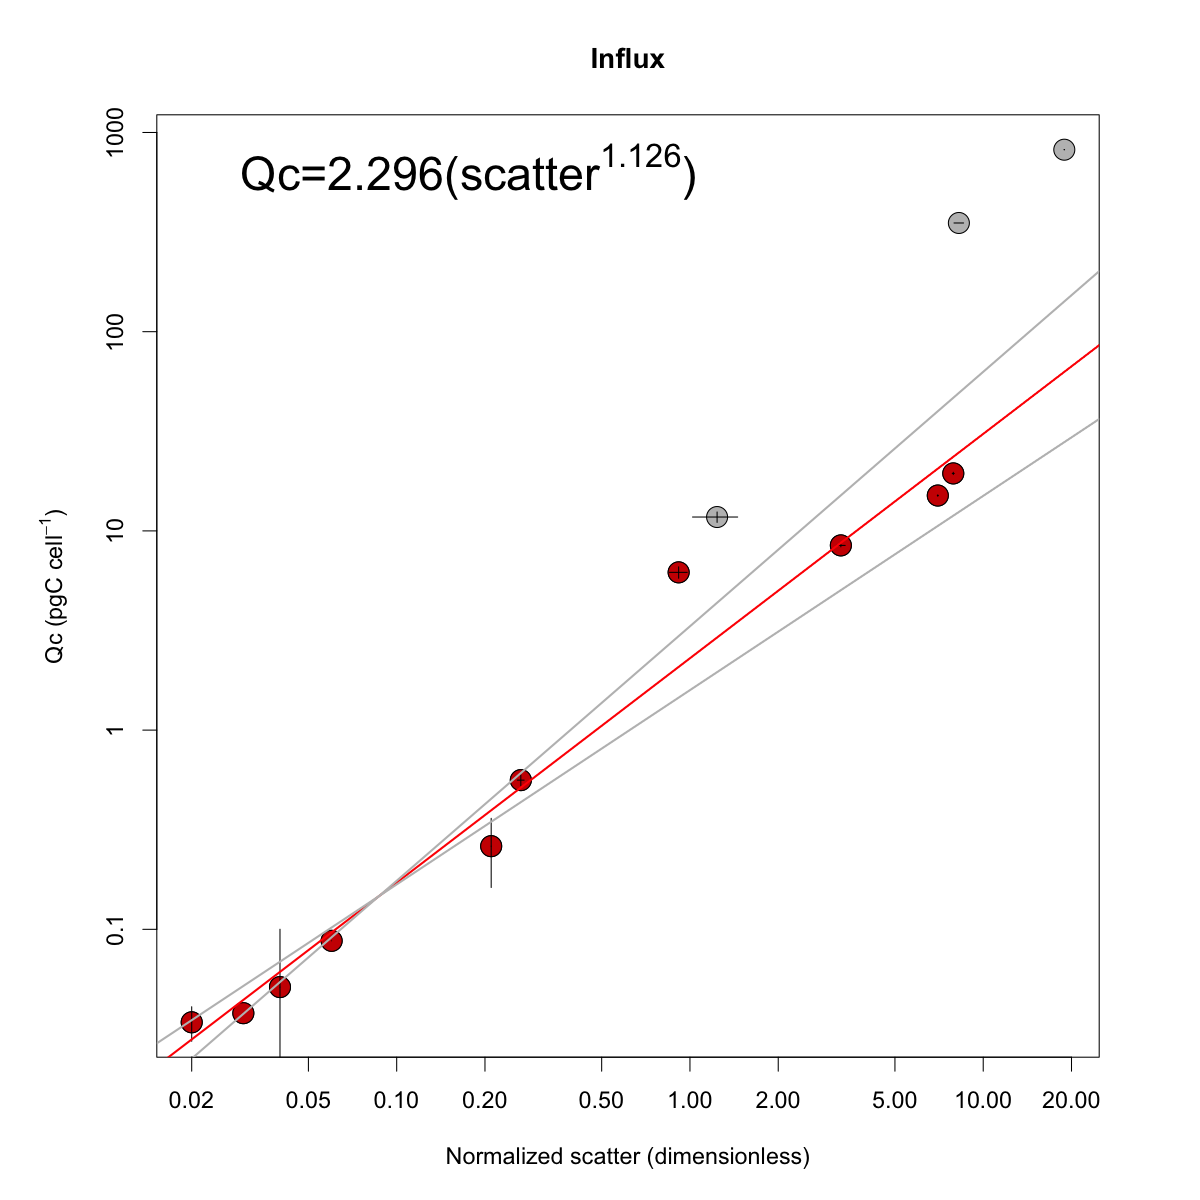
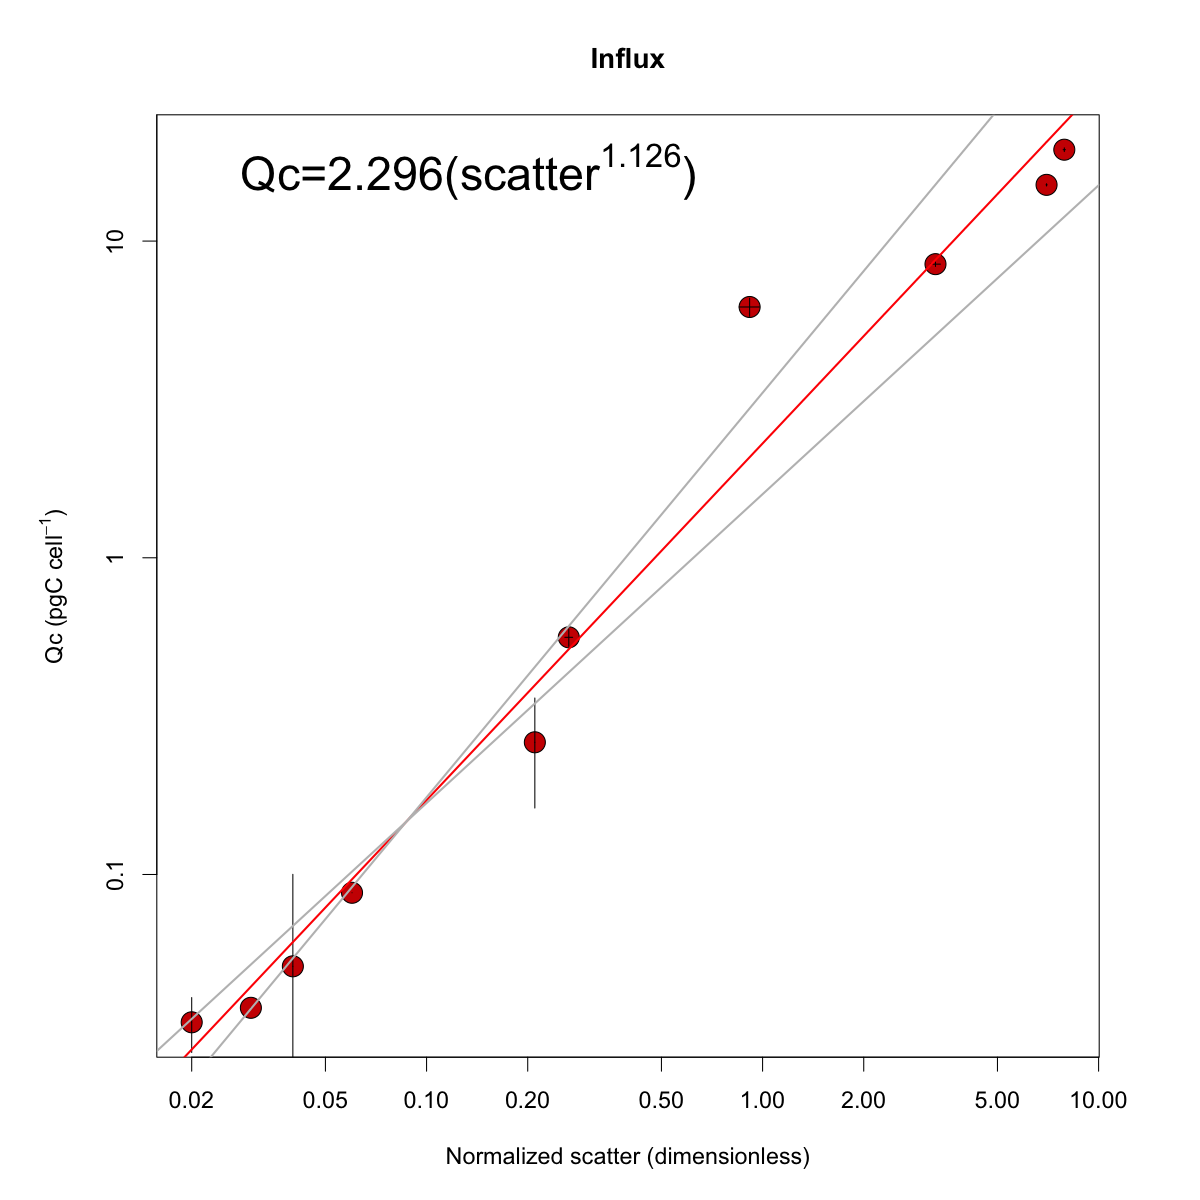
changed plot to remove elongated cells from regression

diff --git a/notebook.md b/notebook.md
@@ -1,6 +1,6 @@
 # Light scattering to Biomass calibration experiment
 
-## 1. List of cultures (21 strains)
+## 1. List of potential cultures (21 strains)
 ### Axenic strains
 
 #### 0.5 - 1.5 micron diameter
@@ -158,7 +158,7 @@ Dilutions (filtered seawater)
 * D50 for TAPS3367, TAPS1335, PT632
 * D10 for Navicula - D3 and TW3365
 
-##### HARVEST 1
+##### POC HARVEST 1
 
 1) Counting 100-300 µL with Influx using 1 µm beads
 
@@ -174,7 +174,7 @@ Dilutions (filtered seawater)
 
 ### February 24
 
-##### HARVEST 2
+##### POC HARVEST 2
 
 1) Counting 100 µL with Influx using 1 µm beads
 
@@ -257,7 +257,7 @@ Take 30 ml stock into 120 ml of Pro99 medium in flask (flask was washed with 10%
 
 
 ### May 5
-##### HARVEST 3
+##### POC HARVEST 3
 
 1) Influx count: 985 µL media , 5 µL beads + 10 µL cultures
   Counting 100 µL with Influx using 1 µm beads
